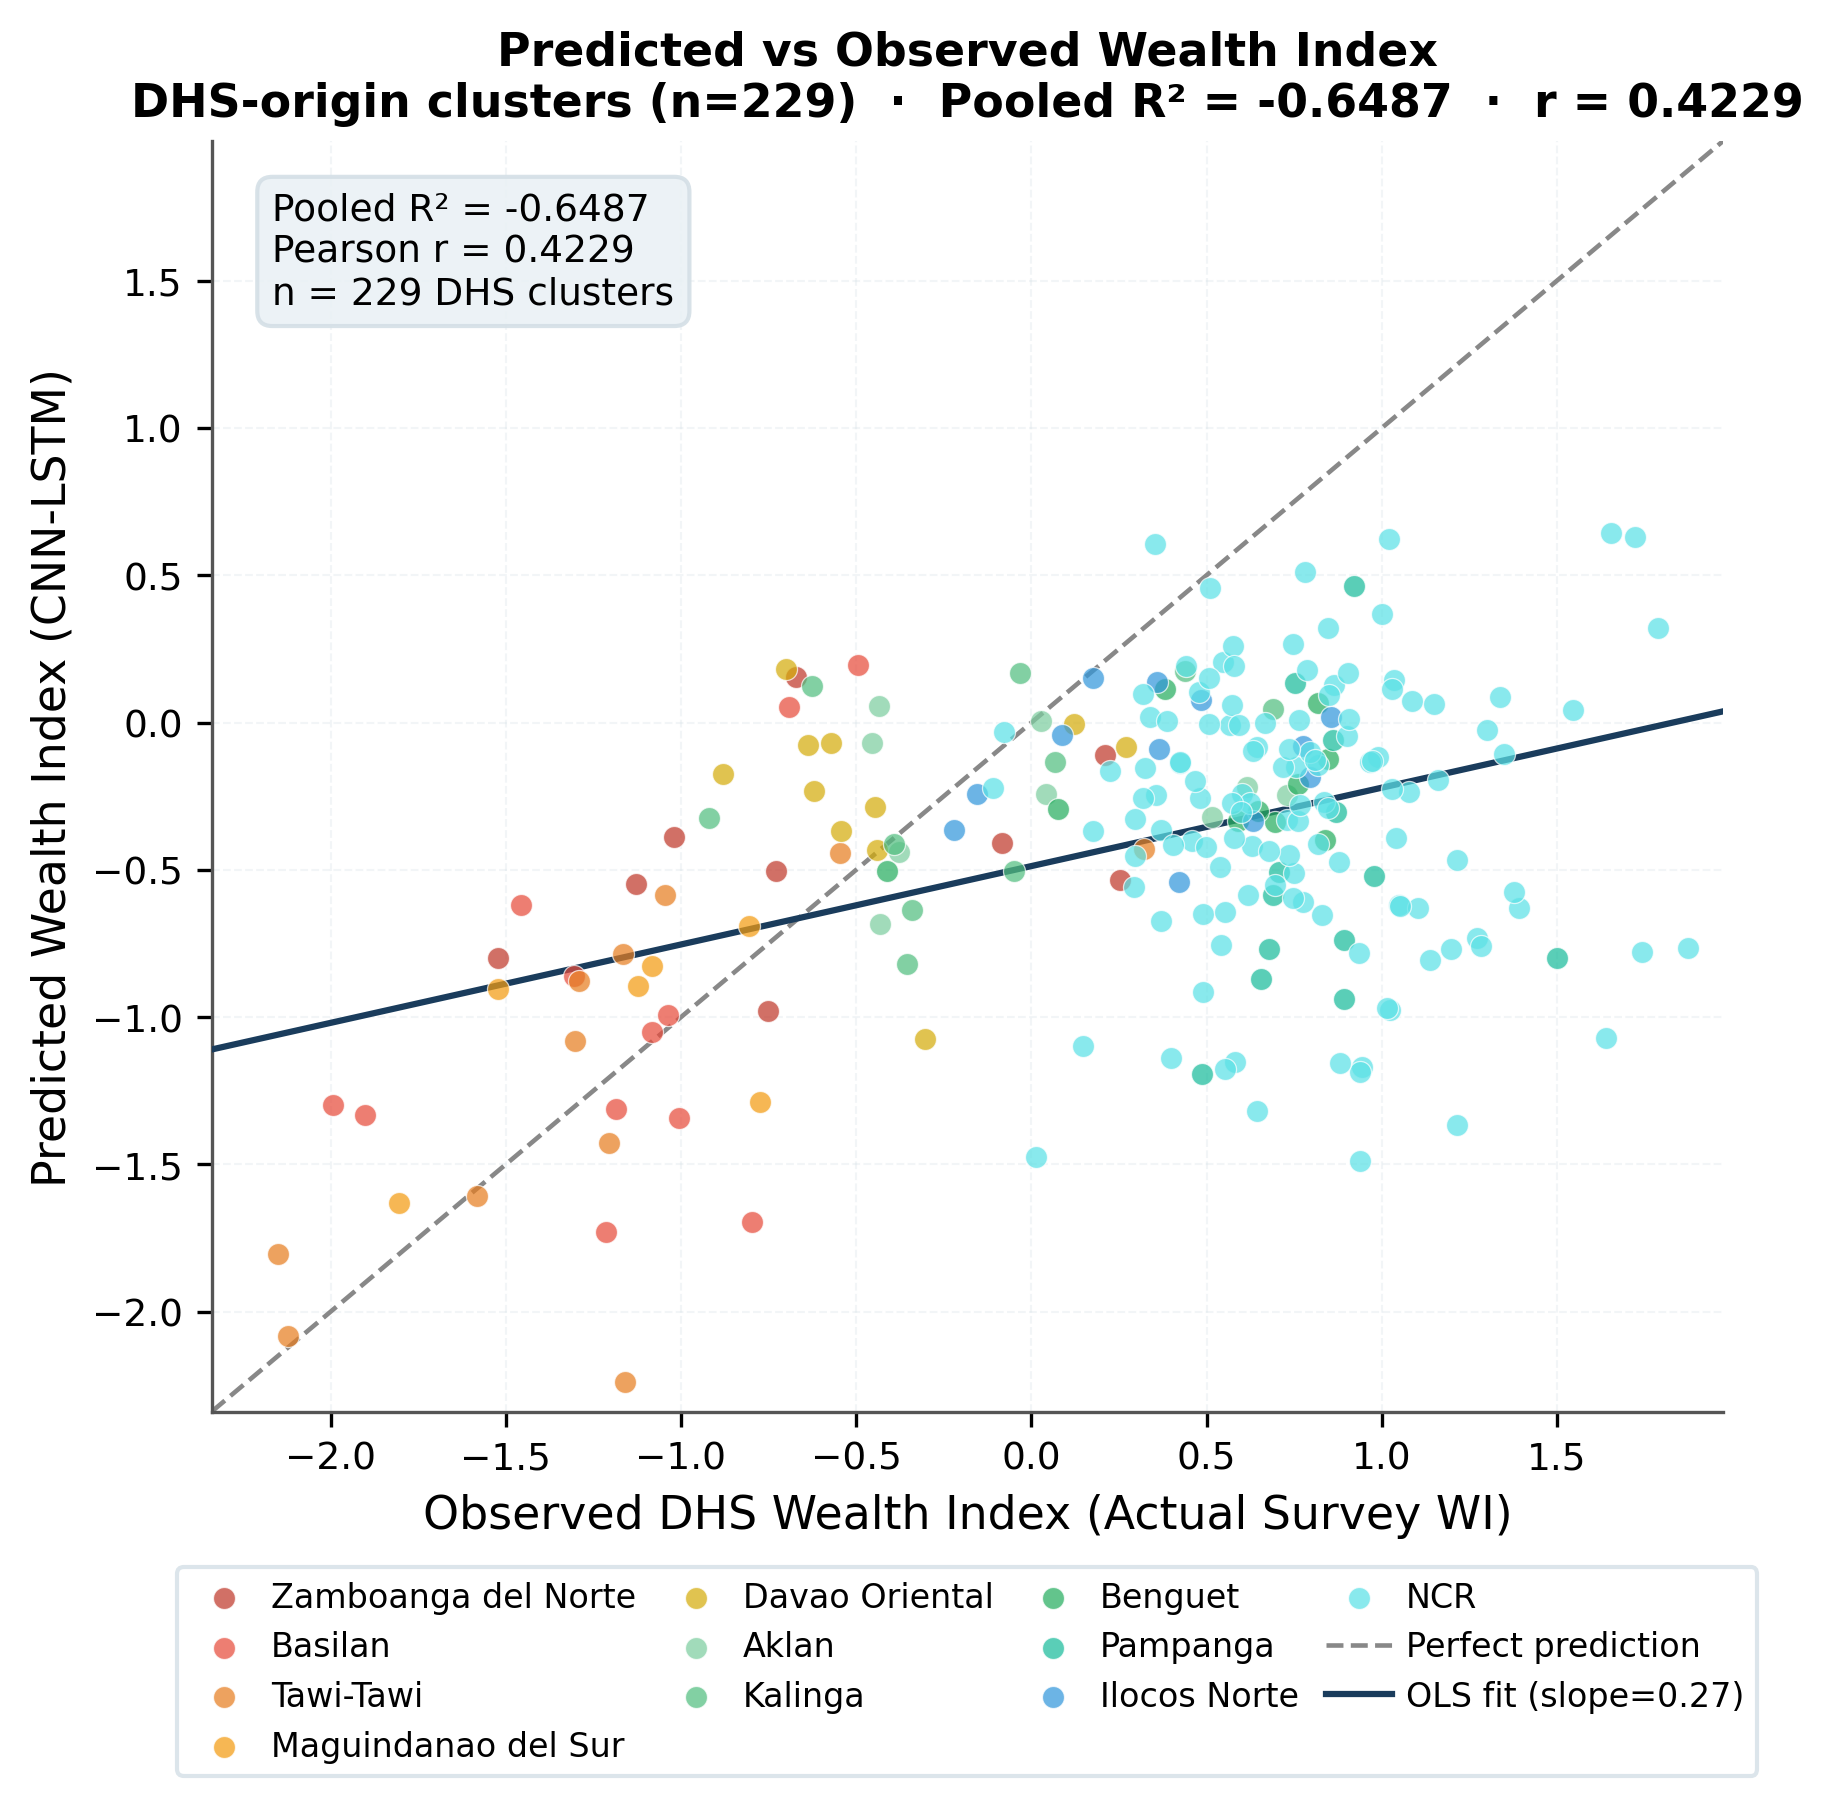
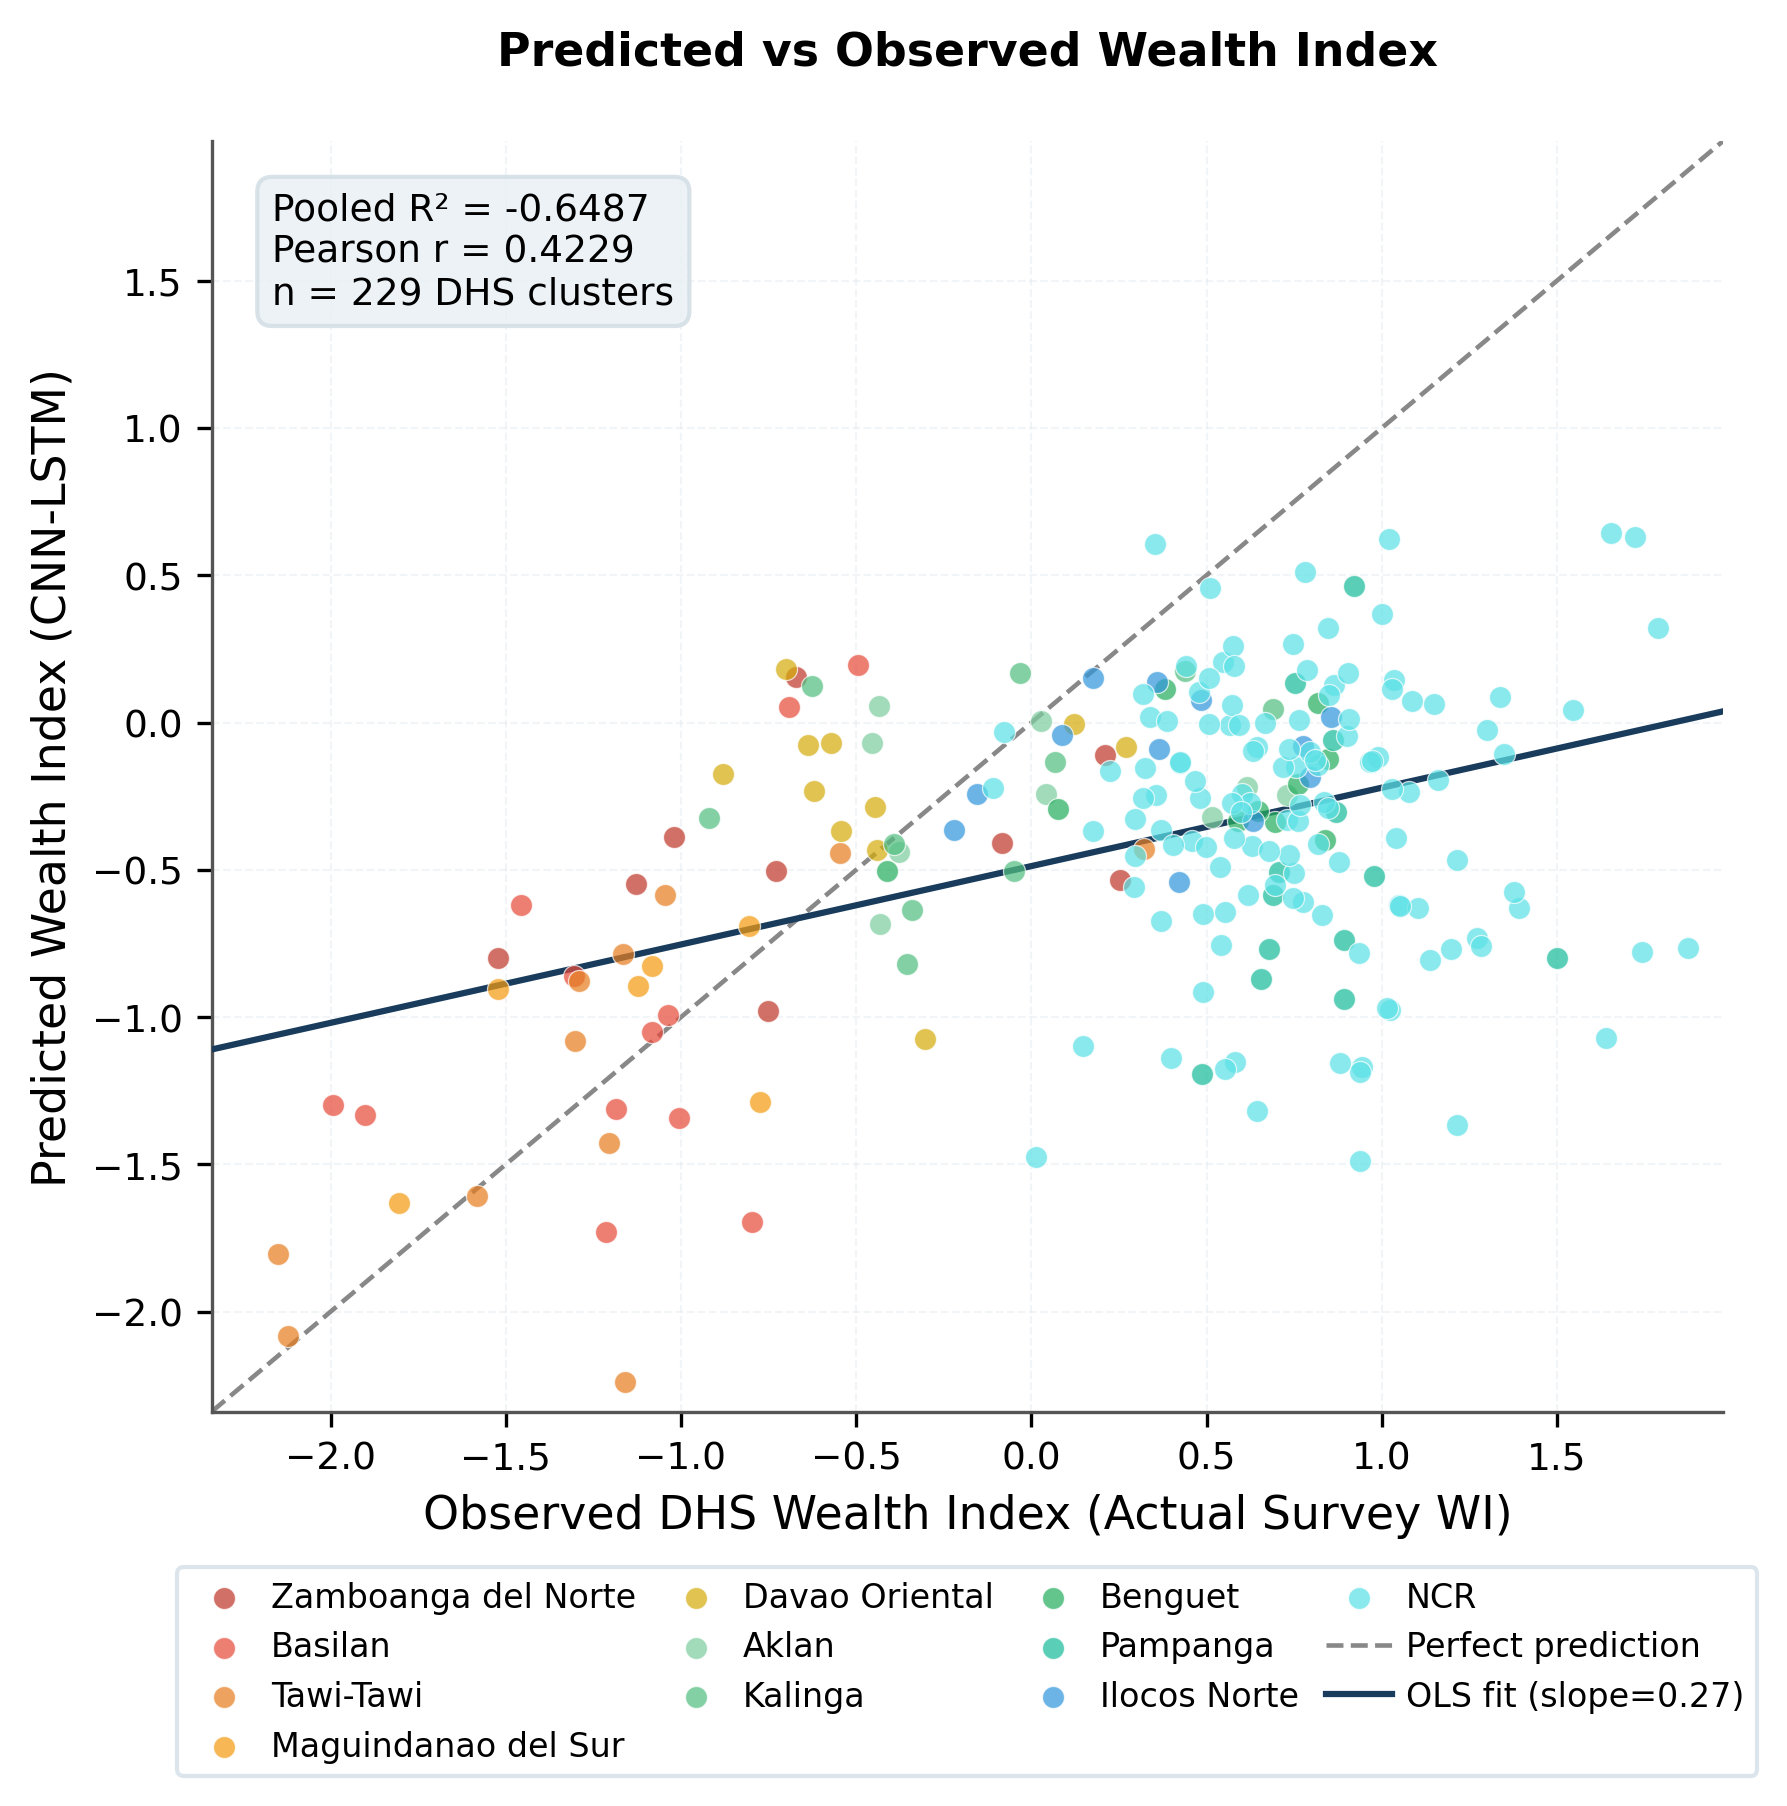
updates

diff --git a/Datamaraws_Manuscript/plots/generate_figures.py b/Datamaraws_Manuscript/plots/generate_figures.py
@@ -210,9 +210,7 @@ def figure_4_2():
 
     ax.set_xlabel('Observed DHS Wealth Index (Actual Survey WI)', fontsize=11)
     ax.set_ylabel('Predicted Wealth Index (CNN-LSTM)', fontsize=11)
-    ax.set_title('Predicted vs Observed Wealth Index\n'
-                 f'DHS-origin clusters (n={len(obs)})  ·  '
-                 f'Pooled R² = {r2_pool:.4f}  ·  r = {r:.4f}',
+    ax.set_title('Predicted vs Observed Wealth Index\n',
                  fontsize=11)
 
     stats_txt = (f'Pooled R² = {r2_pool:.4f}\nPearson r = {r:.4f}\n'
